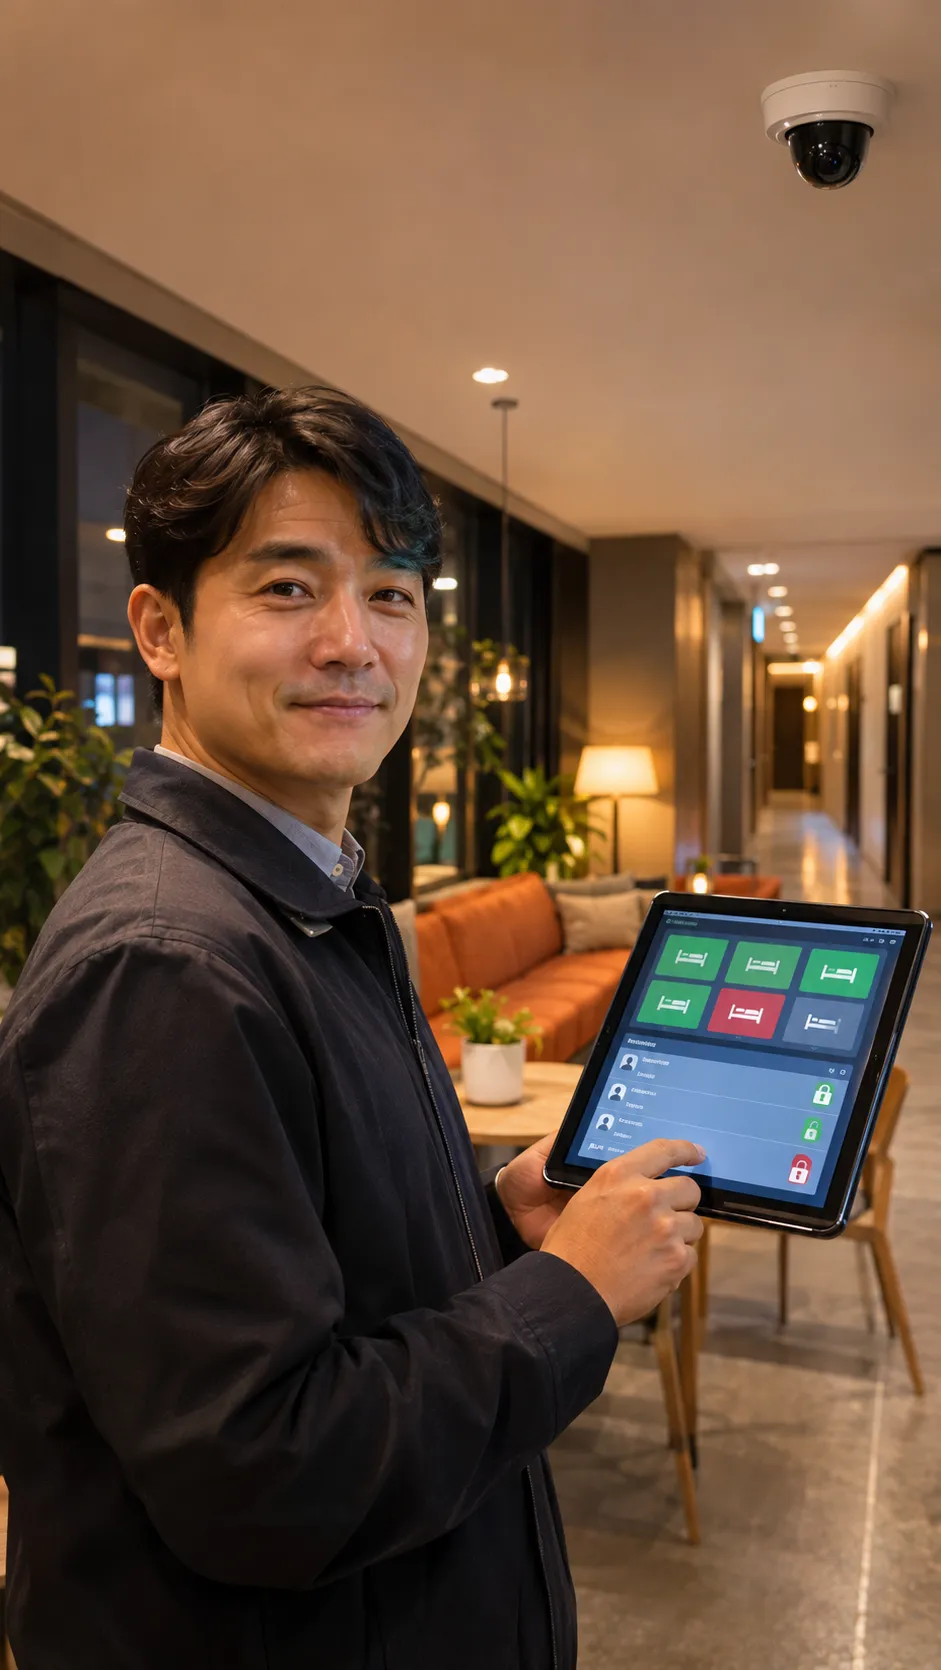
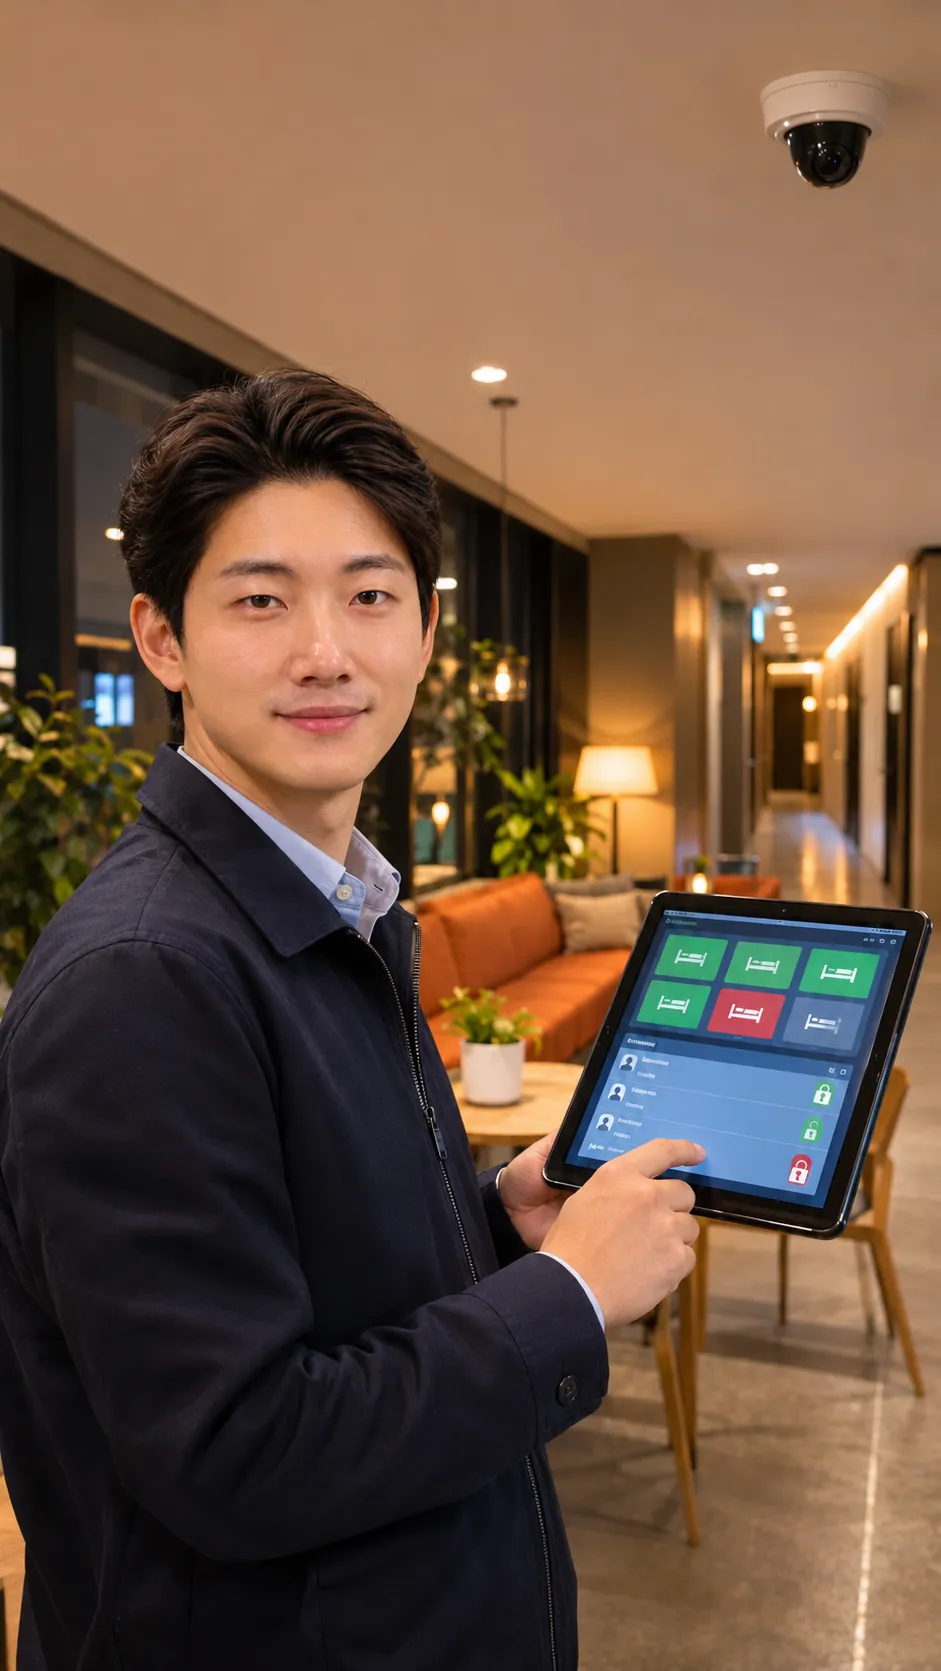
더케이 스마트호스텔: 관제 장면 인물을 최재철 대표로 교체
Claude-Session: https://claude.ai/code/session_01PKUFUQw7ysNXieg6WiDxhi

diff --git a/src/app/thek/TheKSite.tsx b/src/app/thek/TheKSite.tsx
@@ -752,7 +752,7 @@ export default function TheKSite() {
               </div>
             ))}
           </div>
-          <Shot f="security" label="AI 보안·관제 장면" className="mt-6 h-[360px]" pos="50% 40%" dark />
+          <Shot f="security" label="AI 보안·관제 장면" className="mt-6 h-[420px]" pos="50% 42%" dark />
           <p className="mt-3 text-[11px] leading-[1.6]" style={{ color: "#7f9e99" }}>관제 화면은 운영 방식을 보여 주는 예시입니다. 무인 장비와 AI·로봇 솔루션의 도입 범위는 협의 중이며 설계 단계에서 확정합니다.</p>
         </section>
 
